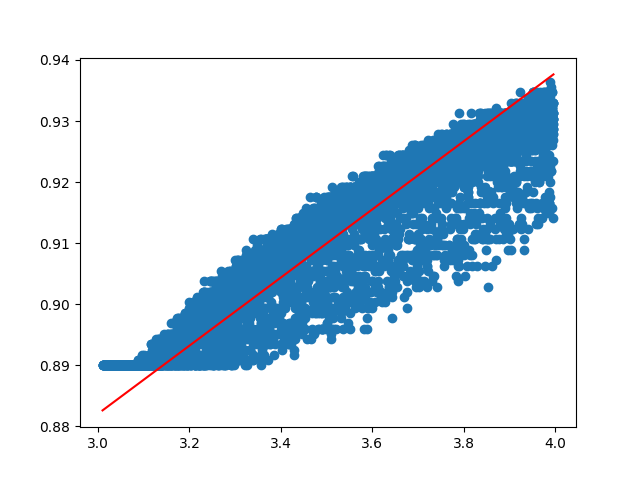
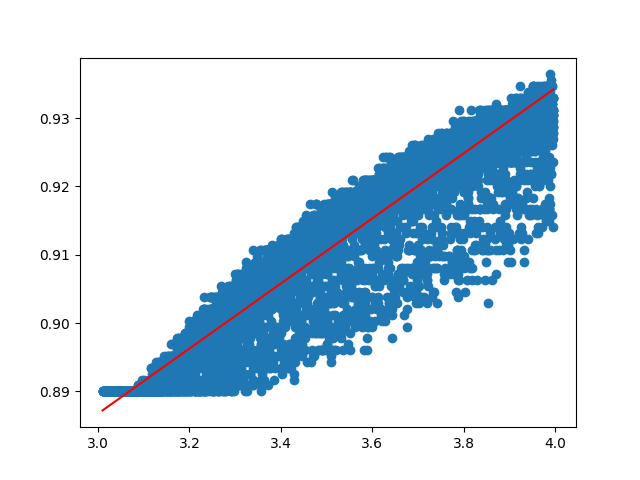
0.883 to 0.930 fixed in plot script

diff --git a/search/vis.py b/search/vis.py
@@ -15,7 +15,7 @@ center_x = df[10].mean()
 center_y = df[11].mean()
 
 # Calculate the slope and intercept for the line passing through the center of the data
-slope = (0.938 - 0.883) / (df[10].max() - df[10].min())
+slope = (0.930 - 0.883) / (df[10].max() - df[10].min())
 intercept = center_y - slope * center_x
 
 # Calculate y values for the red line based on the x values
